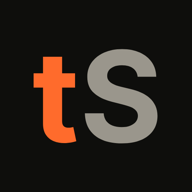
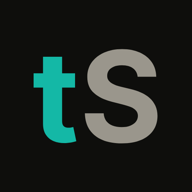
Add brand assets and update color scheme
- Introduced a new `colors.json` file as the single source of truth for tappStudio brand colors.
- Created a `build.py` script to regenerate brand assets including logos, favicons, and Open Graph images based on the colors defined in `colors.json`.
- Added a `README.md` file to document the brand colors and build process.
- Updated `index.css` to reflect the new accent colors for dark and light themes.
- Modified SVG templates for logos and Open Graph images to use the new color scheme.
- Updated various image assets including `favicon`, `apple-touch-icon`, and app icons to align with the new branding.

Changed region(s): [[0.1562, 0.2812, 0.4062, 0.75]]

diff --git a/brand/templates/og.html b/brand/templates/og.html
@@ -1,0 +1,31 @@
+<!doctype html><html><head><meta charset="utf-8">
+<link href="https://fonts.googleapis.com/css2?family=Bricolage+Grotesque:opsz,wght@12..96,700;12..96,800&family=Geist:wght@400;500;600&family=Geist+Mono:wght@500&display=swap" rel="stylesheet">
+<style>
+*{margin:0;padding:0;box-sizing:border-box}
+body{width:1200px;height:630px;background:{{BG}};color:{{TEXT}};font-family:'Geist',sans-serif;position:relative;overflow:hidden}
+.glow{position:absolute;right:-120px;top:-160px;width:820px;height:820px;background:radial-gradient(circle,rgba({{ACCENT_RGB}},.28),transparent 65%)}
+.left{position:absolute;left:72px;top:64px;width:600px;height:502px;display:flex;flex-direction:column}
+.brand{font-family:'Bricolage Grotesque';font-weight:800;font-size:34px;letter-spacing:-.5px;display:flex;align-items:center;gap:10px}
+.brand svg{width:48px;height:48px}.brand .tapp{color:{{ACCENT}}}.brand .studio{color:{{MUTED}};margin-left:2px}
+.eyebrow{font-family:'Geist Mono';font-size:17px;letter-spacing:.08em;text-transform:uppercase;color:{{ACCENT}};margin-top:64px}
+h1{font-family:'Bricolage Grotesque';font-weight:800;font-size:76px;line-height:.98;letter-spacing:-2.5px;margin-top:18px}
+h1 span{color:{{ACCENT}}}
+p{font-size:25px;line-height:1.35;color:#a8a49a;margin-top:22px;max-width:540px}
+.ph{position:absolute;width:250px;border-radius:30px;box-shadow:0 30px 60px -10px rgba(0,0,0,.7);border:2px solid rgba(255,255,255,.08)}
+.a{left:700px;top:120px;transform:rotate(-7deg);z-index:1}
+.b{left:832px;top:40px;width:270px;z-index:3}
+.c{left:990px;top:150px;transform:rotate(7deg);z-index:2}
+.url{position:absolute;right:56px;bottom:26px;font-family:'Geist Mono';font-size:18px;color:{{MUTED}};z-index:5;background:rgba({{BG_RGB}},.75);padding:6px 14px;border-radius:999px}
+</style></head><body>
+<div class="glow"></div>
+<img class="ph a" src="{{ROOT}}/public/apps/splitup/1-1080.webp">
+<img class="ph c" src="{{ROOT}}/public/apps/mydeen/2-1080.webp">
+<img class="ph b" src="{{ROOT}}/public/apps/nasab/2-1080.webp">
+<div class="left">
+<div class="brand">{{LOGO_SVG}}<span><span class="tapp">tapp</span><span class="studio">Studio</span></span></div>
+<div class="eyebrow">Solo developer · Mumbai</div>
+<h1>Apps that<br><span>actually ship.</span></h1>
+<p>Custom mobile apps and websites, designed and built by one developer.</p>
+</div>
+<div class="url">tappstudio.in</div>
+</body></html>

diff --git a/index.css b/index.css
@@ -11,9 +11,11 @@
     --muted: #9a968c;
     --line: rgba(255, 255, 255, 0.08);
     --line-strong: rgba(255, 255, 255, 0.16);
-    --accent: #ff6b2c;
+    /* brand:dark:start */
+    --accent: #14b8a6;
     --accent-ink: #0e0e0c;
-    --accent-soft: rgba(255, 107, 44, 0.14);
+    --accent-soft: rgba(20, 184, 166, 0.14);
+    /* brand:dark:end */
     --shadow: rgba(0, 0, 0, 0.45);
 
     --font-display: "Bricolage Grotesque", "Geist", sans-serif;
@@ -35,9 +37,11 @@
     --muted: #6b675e;
     --line: rgba(21, 20, 15, 0.08);
     --line-strong: rgba(21, 20, 15, 0.16);
-    --accent: #d94e12;
-    --accent-ink: #fff8f0;
-    --accent-soft: rgba(217, 78, 18, 0.1);
+    /* brand:light:start */
+    --accent: #0d9488;
+    --accent-ink: #f0fdfa;
+    --accent-soft: rgba(13, 148, 136, 0.1);
+    /* brand:light:end */
     --shadow: rgba(21, 20, 15, 0.12);
 }
 

diff --git a/brand/build.py b/brand/build.py
@@ -1,0 +1,138 @@
+#!/usr/bin/env python3
+"""Regenerate every brand-colored file from brand/colors.json.
+
+Usage:  python3 brand/build.py
+
+Updates the accent tokens in index.css, then re-renders the logos, favicons,
+app icons and the Open Graph image using headless Chrome + macOS `sips`.
+See brand/README.md for the list of files this touches.
+"""
+import json, os, shutil, struct, subprocess, sys, tempfile
+from pathlib import Path
+
+ROOT = Path(__file__).resolve().parent.parent
+BRAND = ROOT / "brand"
+CHROME = os.environ.get("CHROME", "/Applications/Google Chrome.app/Contents/MacOS/Google Chrome")
+C = json.loads((BRAND / "colors.json").read_text())
+D, L = C["dark"], C["light"]
+
+
+def rgb(hex_):
+    h = hex_.lstrip("#")
+    return tuple(int(h[i:i + 2], 16) for i in (0, 2, 4))
+
+
+def rgb_str(hex_):
+    return ", ".join(str(v) for v in rgb(hex_))
+
+
+def soft(theme):
+    r, g, b = rgb(theme["accent"])
+    return f"rgba({r}, {g}, {b}, {theme['accentSoftAlpha']})"
+
+
+# ---------------------------------------------------------------- CSS tokens
+def sync_css():
+    css = (ROOT / "index.css").read_text()
+    for theme, name in ((D, "dark"), (L, "light")):
+        start, end = f"/* brand:{name}:start */", f"/* brand:{name}:end */"
+        a, b = css.index(start) + len(start), css.index(end)
+        block = (f"\n    --accent: {theme['accent']};\n"
+                 f"    --accent-ink: {theme['accentInk']};\n"
+                 f"    --accent-soft: {soft(theme)};\n    ")
+        css = css[:a] + block + css[b:]
+    (ROOT / "index.css").write_text(css)
+
+
+# ------------------------------------------------------------------ rendering
+def template(name, **kw):
+    s = (BRAND / "templates" / name).read_text()
+    for k, v in kw.items():
+        s = s.replace("{{%s}}" % k, v)
+    return s
+
+
+def ts_svg(t, s, viewbox="0 0 512 512", bg=None):
+    rect = f'<rect x="-100" y="-100" width="800" height="800" fill="{bg}"/>' if bg else ""
+    return template("ts.svg", VIEWBOX=viewbox, T=t, S=s, BG_RECT=rect)
+
+
+def shot(html, out, size=(512, 512), bg="00000000"):
+    with tempfile.NamedTemporaryFile("w", suffix=".html", delete=False) as f:
+        f.write(html)
+    subprocess.run([CHROME, "--headless=new", "--disable-gpu", "--hide-scrollbars", "--virtual-time-budget=6000",
+                    f"--default-background-color={bg}", f"--window-size={size[0]},{size[1]}",
+                    f"--screenshot={out}", f"file://{f.name}"],
+                   check=True, stdout=subprocess.DEVNULL, stderr=subprocess.DEVNULL)
+    os.unlink(f.name)
+
+
+def render_svg(svg, out, bg_hex=None):
+    bg = (bg_hex or "transparent")
+    html = (f"<!doctype html><style>html,body{{margin:0;width:512px;height:512px;background:{bg}}}"
+            f"svg{{display:block;width:512px;height:512px}}</style>{svg}")
+    shot(html, out, bg="00000000" if not bg_hex else bg_hex.lstrip("#") + "FF")
+
+
+def sips(src, out, size, fmt=None):
+    cmd = ["sips", "-z", str(size), str(size), str(src), "--out", str(out)]
+    if fmt:
+        cmd[1:1] = ["-s", "format", fmt]
+    subprocess.run(cmd, check=True, stdout=subprocess.DEVNULL)
+
+
+def build_assets():
+    img = ROOT / "public" / "images"
+    tmp = Path(tempfile.mkdtemp())
+
+    # Logos (transparent). logo.* is for dark backgrounds, logo-dark.* for light ones.
+    for name, theme in (("logo", D), ("logo_dark", L)):
+        svg = ts_svg(theme["accent"], theme["muted"])
+        (img / f"{name}.svg").write_text(svg)
+        png = img / ("logo.png" if name == "logo" else "logo-dark.png")
+        render_svg(svg, png)
+    shutil.copy(img / "logo.png", img / "ts-logo-512-transparent.png")
+    render_svg(ts_svg(L["accent"], L["muted"], bg="#ffffff"), img / "ts-logo-512-white.png", "#ffffff")
+
+    # Favicon: tight crop, transparent, dark-theme pair (reads on light and dark tabs)
+    render_svg(ts_svg(D["accent"], D["muted"], "60 61 390 390"), tmp / "fav.png")
+    sips(tmp / "fav.png", ROOT / "favicon.png", 32)
+    sips(tmp / "fav.png", tmp / "f16.png", 16)
+    sips(tmp / "fav.png", tmp / "f48.png", 48)
+    imgs = [(16, (tmp / "f16.png").read_bytes()), (32, (ROOT / "favicon.png").read_bytes()),
+            (48, (tmp / "f48.png").read_bytes())]
+    out = struct.pack("<HHH", 0, 1, len(imgs)); off = 6 + 16 * len(imgs); data = b""
+    for w, d in imgs:
+        out += struct.pack("<BBBBHHII", w, w, 0, 0, 1, 32, len(d), off + len(data)); data += d
+    (ROOT / "favicon.ico").write_bytes(out + data)
+
+    # App icons on the dark brand background
+    render_svg(ts_svg(D["accent"], D["muted"], "-20 -20 552 552", bg=D["bg"]), tmp / "icon.png", D["bg"])
+    sips(tmp / "icon.png", ROOT / "apple-touch-icon.png", 180)
+    sips(tmp / "icon.png", img / "icon-192.png", 192)
+    shutil.copy(tmp / "icon.png", img / "icon-512.png")
+
+    # Open Graph image (1200x630 JPEG)
+    html = template("og.html", ROOT=f"file://{ROOT}", ACCENT=D["accent"], MUTED=D["muted"],
+                    BG=D["bg"], TEXT=D["text"], ACCENT_RGB=rgb_str(D["accent"]),
+                    BG_RGB=rgb_str(D["bg"]), LOGO_SVG=ts_svg(D["accent"], D["muted"]))
+    shot(html, tmp / "og.png", (1200, 630), D["bg"].lstrip("#") + "FF")
+    subprocess.run(["sips", "-s", "format", "jpeg", "-s", "formatOptions", "85",
+                    str(tmp / "og.png"), "--out", str(img / "og-image.jpg")],
+                   check=True, stdout=subprocess.DEVNULL)
+    shutil.rmtree(tmp)
+
+
+def sync_manifest():
+    p = ROOT / "manifest.json"
+    m = json.loads(p.read_text())
+    m["theme_color"] = m["background_color"] = D["bg"]
+    p.write_text(json.dumps(m, indent=4) + "\n")
+
+
+if __name__ == "__main__":
+    sync_css()
+    sync_manifest()
+    if "--css-only" not in sys.argv:
+        build_assets()
+    print("Brand build done.")

diff --git a/brand/README.md b/brand/README.md
@@ -1,0 +1,37 @@
+# tappStudio brand colors
+
+Single source of truth: [`colors.json`](colors.json). To change the palette, edit it and run:
+
+```bash
+python3 brand/build.py          # tokens + all generated images (needs Chrome and macOS sips)
+python3 brand/build.py --css-only   # tokens and manifest only
+```
+
+Current accent: **deep teal**. Dark theme `#14b8a6`, light theme `#0d9488`
+(previously orange `#ff6b2c` / `#d94e12`).
+
+## Files the build script writes
+
+| File | What changes |
+| --- | --- |
+| `index.css` | `--accent`, `--accent-ink`, `--accent-soft` inside the `brand:dark` and `brand:light` marker comments. Everything on the page (buttons, links, nav wordmark, nav tS logo, glow, highlights) reads these variables. |
+| `manifest.json` | `theme_color`, `background_color` (from `dark.bg`) |
+| `favicon.png`, `favicon.ico` | tS mark, transparent, tight crop (16/32/48px) |
+| `apple-touch-icon.png` | 180px, tS on the dark background |
+| `public/images/icon-192.png`, `icon-512.png` | Manifest icons, tS on the dark background |
+| `public/images/logo.svg`, `logo.png` | tS, transparent, dark-theme colors (for dark backgrounds; used in JSON-LD) |
+| `public/images/logo_dark.svg`, `logo-dark.png` | tS, transparent, light-theme colors (for light backgrounds) |
+| `public/images/ts-logo-512-transparent.png` | Same as `logo.png` |
+| `public/images/ts-logo-512-white.png` | tS on white, light-theme colors |
+| `public/images/og-image.jpg` | 1200x630 link-preview image for WhatsApp / X |
+
+## Templates (edit these to change layout, not color)
+
+- `templates/ts.svg`: the tS glyph paths; `{{T}}` colors the "t", `{{S}}` the "S".
+- `templates/og.html`: the Open Graph image layout. Colors are `{{ACCENT}}`, `{{MUTED}}`, `{{BG}}`, `{{TEXT}}`.
+
+## Not covered
+
+- The inline nav logo in `index.html` uses `var(--accent)` and `var(--muted)`, so it follows the CSS tokens.
+- App pages with their own styling (`mydeen/`, `splitup/`, `aifunkit/`) and the app screenshots and icons under `public/apps/` are separate products and keep their own colors.
+- After deploying, browsers and X/WhatsApp cache favicons and link previews; expect a delay (X Card Validator or `?v=2` refreshes the preview).
